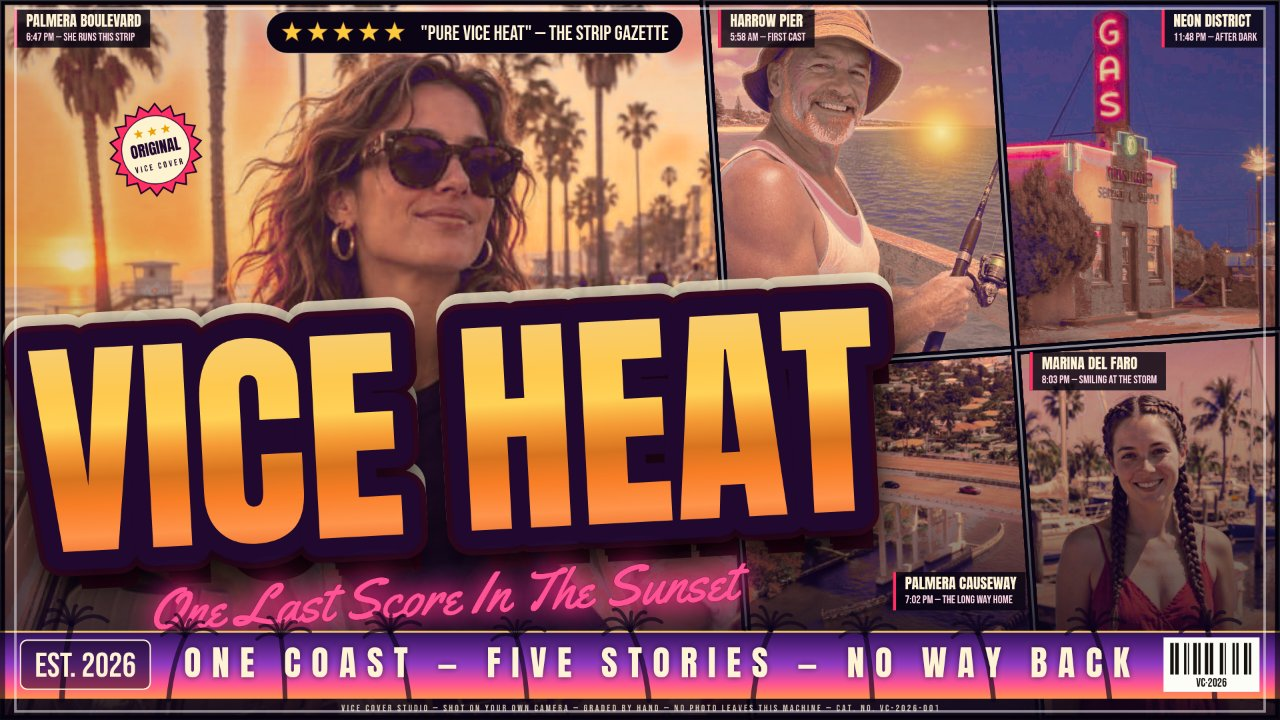
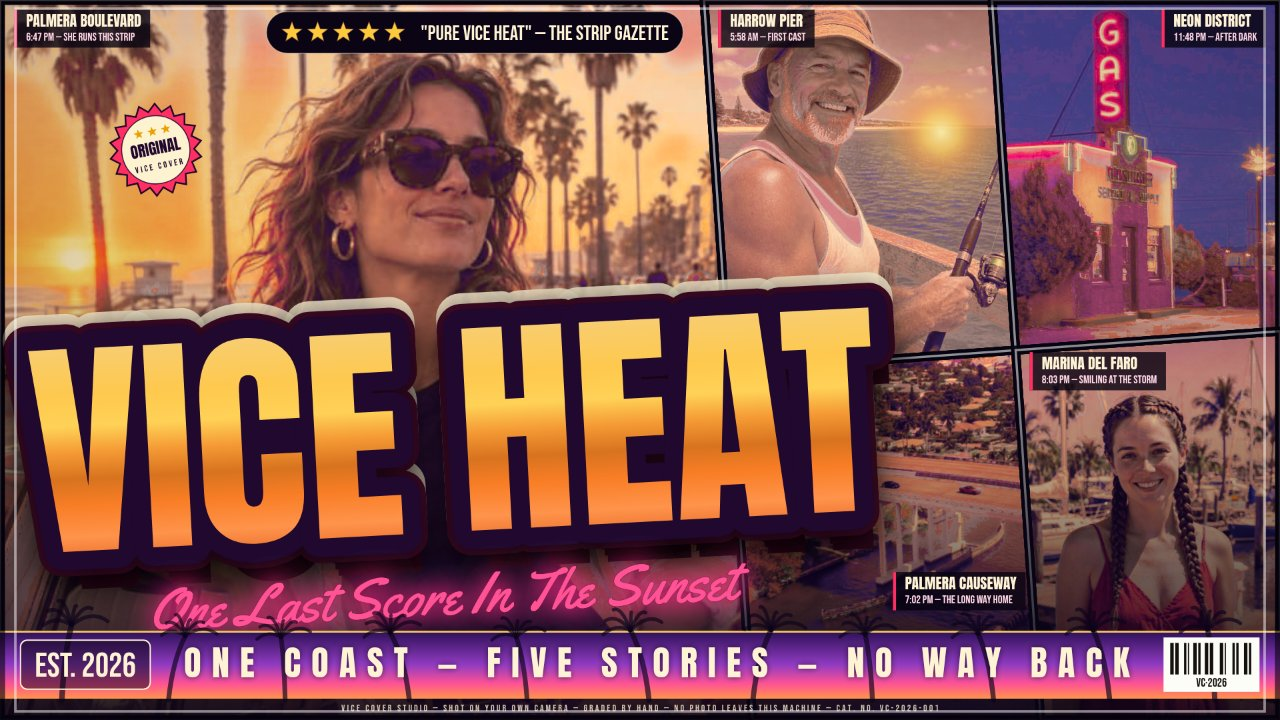
Round 32: selective bold grade, pier panel exempt

Changed region(s): [[0.7812, 0.2139, 0.9375, 0.4889]]

diff --git a/app/src/poster.js b/app/src/poster.js
@@ -117,6 +117,40 @@ export const GRADES = {
     steps: 256,
     mix: 0.55,
     enrich: { sat: 1.24, curve: 0.16 },
+    // Round 32 (`boldPanels`): round 31 tried this exact dose as a
+    // GLOBAL grade change (mix 0.58, enrich sat 1.38 / curve 0.24, the
+    // ramp's shadow stop deepened, its mid and highlight stops warmed)
+    // and measured the richness it was after — the showcase panels'
+    // mean saturation rose from 0.464 to 0.512 — but every global
+    // lever also lifted the pier portrait's face-edge population at
+    // hue 345–359, and its face mag330 rose +0.86…+2.29 points past
+    // the +0.5 gate no matter how the dose was split across levers.
+    // The dose therefore lands SELECTIVELY, locked to the four
+    // showcase photos whose skin the shields demonstrably hold (the
+    // heroine's and the marina subject's skin cannot pass the magenta
+    // sector test — see round 13 — and their face mag330 is gated
+    // separately), while the pier photo keeps the base grade above
+    // untouched, at dose zero. Like the fringe tame, the dose is
+    // excluded from the mean-measure renders the harmonize gains are
+    // computed from, so no panel's white-balance gains move and the
+    // exempt panel renders pixel-for-pixel as before. Photos not
+    // named here — the pier first of all, but also any photo a user
+    // loads of their own — keep the base grade exactly.
+    boldPanels: {
+      photos: ['boulevard.jpg', 'coast.jpg', 'neon.jpg', 'marina.jpg'],
+      ramp: [[0, [19, 8, 46]], [0.24, [96, 34, 112]], [0.46, [194, 57, 114]], [0.68, [244, 102, 66]], [0.86, [255, 176, 102]], [1, [255, 228, 172]]],
+      mix: 0.58,
+      enrich: { sat: 1.38, curve: 0.24 },
+      // Per-photo dose factors (round 32, iteration 2): a factor
+      // lerps every dose lever — ramp stops, mix, enrich — between
+      // the base grade (0) and the full dose (1). The marina photo
+      // runs at a reduced factor: at full dose its face region's
+      // mag330 rose +2.93 points (the saturation lift amplifies the
+      // pink rim light already living in the subject's braids past
+      // the sector thresholds), over the +0.5 gate the heroine's
+      // face clears at full dose (−0.03…+0.11 measured).
+      dose: { 'marina.jpg': 0.35 },
+    },
     skinProtect: true,
     skinTame: { mix: 0.72, sat: 0.92, bright: [0.93, 0.995], satHi: [0.58, 0.78], rgHi: [0.55, 0.7] },
     // Round 13 (`magentaTame`): the skin taming above fixed saturation
@@ -666,6 +700,36 @@ export function gradeLUT(gradeKey, smooth = false) {
   return lut;
 }
 
+const boldLutCache = new Map();
+
+/** The round-32 selective dose's lookup: the grade's own LUT recipe
+ *  (same posterize, same step count) read off the `boldPanels` ramp
+ *  instead of the grade's base ramp. A dose factor below 1 lerps the
+ *  ramp stops between the base ramp and the bold ramp first (the two
+ *  ramps share their stop positions by construction). Cached per
+ *  grade and factor like gradeLUT. */
+function boldGradeLUT(gradeKey, f = 1) {
+  const cacheKey = gradeKey + '@' + f;
+  if (boldLutCache.has(cacheKey)) return boldLutCache.get(cacheKey);
+  const grade = GRADES[gradeKey] ?? GRADES.sunset;
+  let ramp = grade.boldPanels?.ramp;
+  if (!ramp) return gradeLUT(gradeKey);
+  if (f < 1) {
+    ramp = grade.ramp.map((s, i) => [s[0],
+      s[1].map((c, k) => Math.round(c + (ramp[i][1][k] - c) * f))]);
+  }
+  const lut = new Uint8Array(256 * 3);
+  for (let v = 0; v < 256; v++) {
+    const t = v / 255;
+    const [r, g, b] = rampAt(ramp, posterT(t, grade.steps ?? TONAL_STEPS, grade.ease));
+    lut[v * 3] = r;
+    lut[v * 3 + 1] = g;
+    lut[v * 3 + 2] = b;
+  }
+  boldLutCache.set(cacheKey, lut);
+  return lut;
+}
+
 /** Bayer 8x8 ordered-dither thresholds (0..63), the classic dispersed-dot
  *  matrix: neighbouring thresholds are far apart in value, so a partially
  *  spilled plateau reads as fine print texture, never as clumps. */
@@ -1022,11 +1086,24 @@ export function gradedPanelCanvas(shape, photo, gradeKey, wb = null, meanMeasure
   const ch = Math.max(1, Math.round(shape.h));
   const img = photo.img;
   if (img.__vcId == null) img.__vcId = ++imgSeq;
+  // Round 32: the selective bold dose (see `boldPanels` on the grade)
+  // is decided per photo, here, so dosed renders cache apart from the
+  // base grade's. Mean-measure renders never take the dose: they feed
+  // the harmonize gains, and a dose there would steer every panel's
+  // white balance — the exempt pier panel included (the fringe tame
+  // is excluded from those renders for the same reason, round 14).
+  const boldSpec = (GRADES[gradeKey] ?? GRADES.sunset).boldPanels;
+  const boldName = boldSpec && !meanMeasure
+    ? boldSpec.photos.find((n) => (photo.src ?? img.src ?? '').endsWith(n))
+    : undefined;
+  const boldOn = !!boldName;
+  const boldF = boldOn ? (boldSpec.dose?.[boldName] ?? 1) : 0;
   const key = [img.__vcId, gradeKey, cw, ch,
     (photo.zoom ?? 1).toFixed(3), (photo.ox ?? 0).toFixed(3), (photo.oy ?? 0.55).toFixed(3),
     photo.flip ? 'f' : '',
     wb ? wb.map((v) => v.toFixed(3)).join(',') : '',
-    meanMeasure ? 'mean' : ''].join('|');
+    meanMeasure ? 'mean' : '',
+    boldOn ? 'bold' + boldF : ''].join('|');
   if (panelCache.has(key)) return panelCache.get(key);
 
   const canvas = document.createElement('canvas');
@@ -1050,7 +1127,9 @@ export function gradedPanelCanvas(shape, photo, gradeKey, wb = null, meanMeasure
   if (painterly) softenBase(ctx, cw, ch, painterly.scale, painterly.passes);
 
   const grade = GRADES[gradeKey] ?? GRADES.sunset;
-  const mix = grade.mix;
+  const mix = boldOn
+    ? (boldF >= 1 ? grade.boldPanels.mix : grade.mix + (grade.boldPanels.mix - grade.mix) * boldF)
+    : grade.mix;
   // Dark photos are exposure-lifted before grading (bright photos get a
   // null LUT and the loop below is exactly the pre-lift behaviour).
   const expo = photoExposure(img);
@@ -1059,7 +1138,7 @@ export function gradedPanelCanvas(shape, photo, gradeKey, wb = null, meanMeasure
   let fringeGate = null;
   let inkCanvas = null;
   if (mix > 0) {
-    const lut = gradeLUT(gradeKey);
+    const lut = boldOn ? boldGradeLUT(gradeKey, boldF) : gradeLUT(gradeKey);
     // Shadow protection (grades that carry `protect`: Noir, Poster Ink).
     // Through the protect band the posterized ramp is cross-faded to the
     // same ramp un-posterized, weighted by the pixel's own luminance:
@@ -1103,8 +1182,12 @@ export function gradedPanelCanvas(shape, photo, gradeKey, wb = null, meanMeasure
     // resampled, blurred or flattened, so photographic texture passes
     // through untouched. Grades without `enrich` skip both branches
     // and render exactly as before.
-    const eCurve = grade.enrich?.curve ?? 0;
-    const eSat = grade.enrich?.sat ?? 0;
+    const eCurve = boldOn
+      ? (boldF >= 1 ? grade.boldPanels.enrich.curve : (grade.enrich?.curve ?? 0) + (grade.boldPanels.enrich.curve - (grade.enrich?.curve ?? 0)) * boldF)
+      : (grade.enrich?.curve ?? 0);
+    const eSat = boldOn
+      ? (boldF >= 1 ? grade.boldPanels.enrich.sat : (grade.enrich?.sat ?? 0) + (grade.boldPanels.enrich.sat - (grade.enrich?.sat ?? 0)) * boldF)
+      : (grade.enrich?.sat ?? 0);
     // Skin protection (grades that carry `skinProtect`: Blockbuster).
     // The sunset ramp's orange highlight stop plus the saturation lift
     // used to push faces tangerine: the photo's warmest, most saturated
